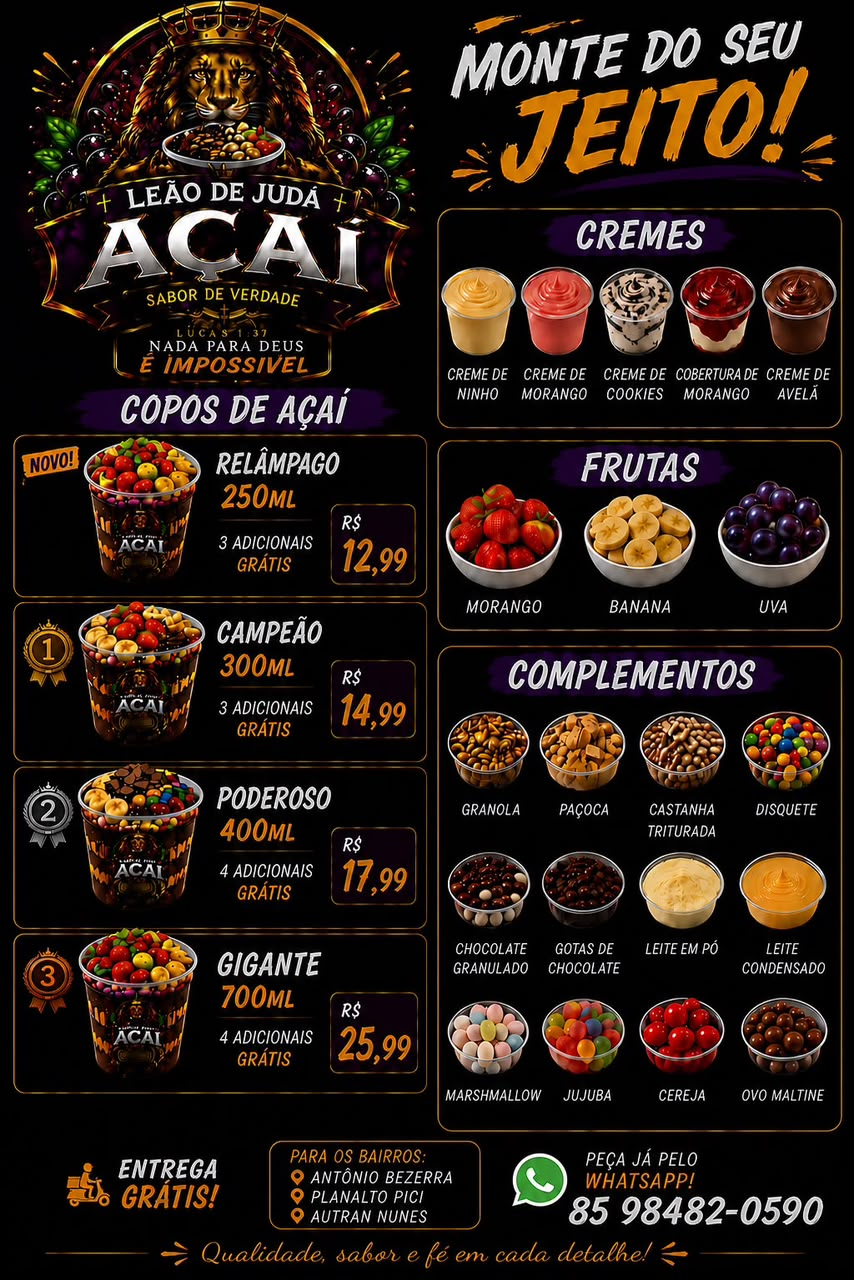
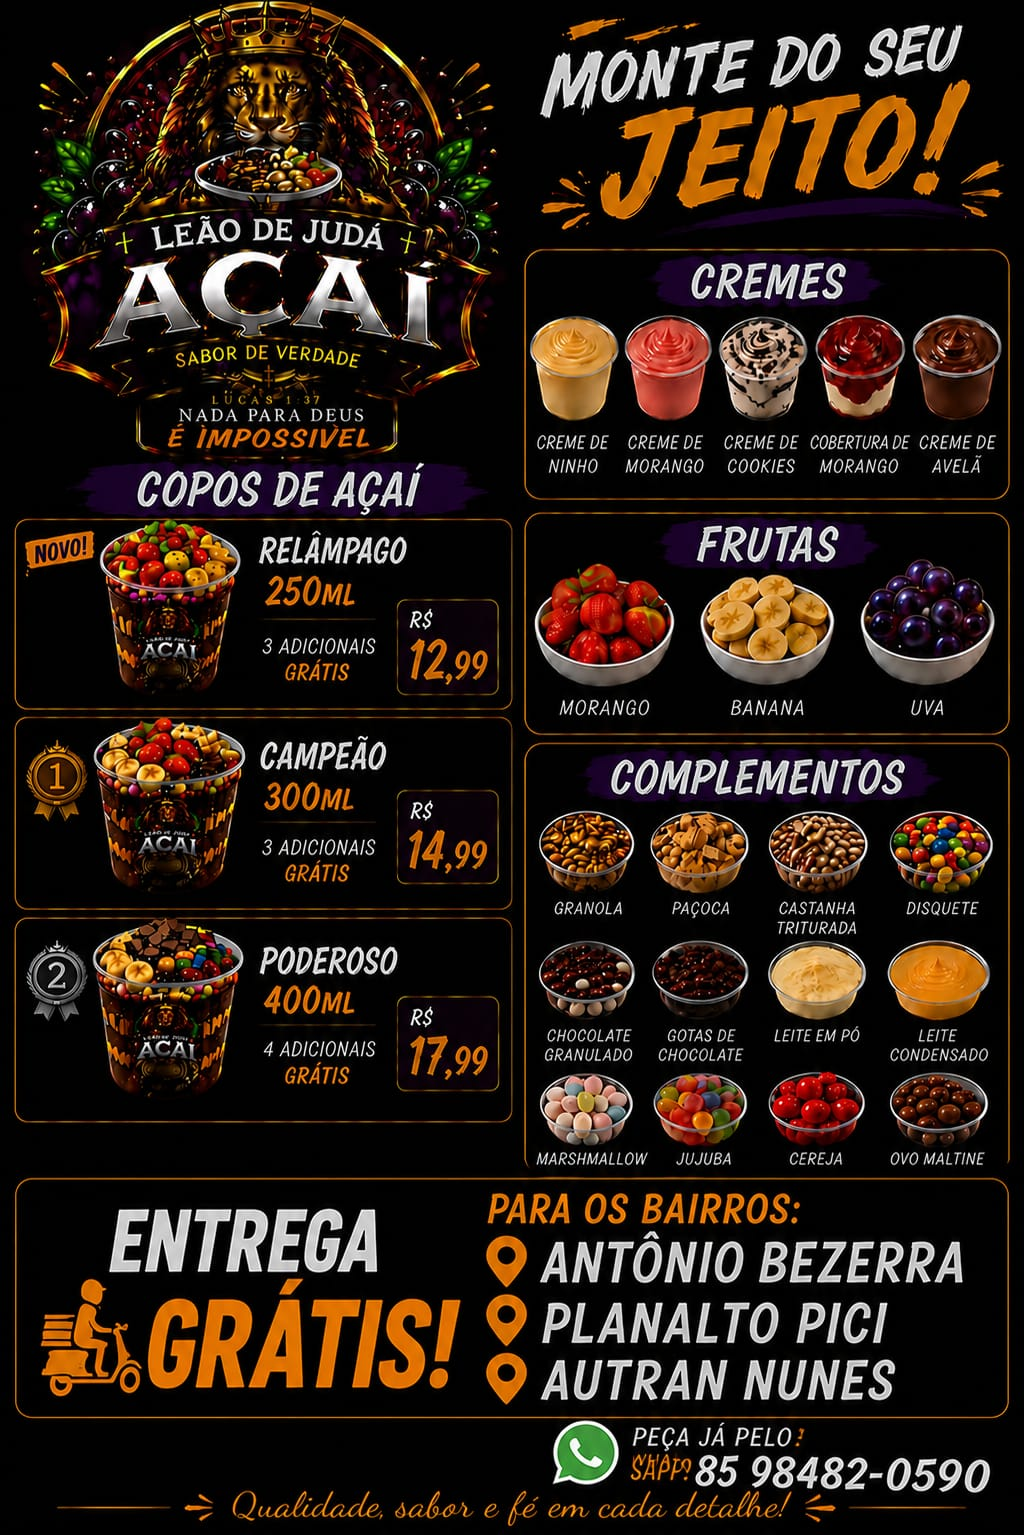
Restore cups menu to match official poster: 3/3/4 free addons and chocolate granulado, re-add updated cardapio poster image

diff --git a/index.html b/index.html
@@ -97,27 +97,27 @@
     <h2 class="section-title reveal" style="margin-top:4rem">Copos de Açaí</h2>
     <p class="section-sub reveal">Escolha o seu tamanho e monte do seu jeito</p>
     <div class="cards-grid cards-grid--3 reveal">
-      <div class="cup-card" data-product="Copo Relâmpago 250ml" data-price="12.99" data-free="5">
+      <div class="cup-card" data-product="Copo Relâmpago 250ml" data-price="12.99" data-free="3">
         <span class="cup-badge cup-badge--new">Novo</span>
         <h3>Relâmpago</h3>
         <span class="cup-ml">250ml</span>
-        <span class="cup-extra">4 adicionais + 1 brinde grátis</span>
+        <span class="cup-extra">3 adicionais grátis</span>
         <span class="cup-price">R$ 12,99</span>
         <button class="btn-add" type="button">+ Adicionar</button>
       </div>
-      <div class="cup-card" data-product="Copo Campeão 300ml" data-price="14.99" data-free="5">
+      <div class="cup-card" data-product="Copo Campeão 300ml" data-price="14.99" data-free="3">
         <span class="cup-badge cup-badge--gold">1º Campeão</span>
         <h3>Campeão</h3>
         <span class="cup-ml">300ml</span>
-        <span class="cup-extra">4 adicionais + 1 brinde grátis</span>
+        <span class="cup-extra">3 adicionais grátis</span>
         <span class="cup-price">R$ 14,99</span>
         <button class="btn-add" type="button">+ Adicionar</button>
       </div>
-      <div class="cup-card" data-product="Copo Poderoso 400ml" data-price="17.99" data-free="5">
+      <div class="cup-card" data-product="Copo Poderoso 400ml" data-price="17.99" data-free="4">
         <span class="cup-badge cup-badge--silver">2º Lugar</span>
         <h3>Poderoso</h3>
         <span class="cup-ml">400ml</span>
-        <span class="cup-extra">4 adicionais + 1 brinde grátis</span>
+        <span class="cup-extra">4 adicionais grátis</span>
         <span class="cup-price">R$ 17,99</span>
         <button class="btn-add" type="button">+ Adicionar</button>
       </div>
@@ -157,6 +157,7 @@
           <li>Paçoca</li>
           <li>Castanha Triturada</li>
           <li>Disquete</li>
+          <li>Chocolate Granulado</li>
           <li>Gotas de Chocolate</li>
           <li>Leite em Pó</li>
           <li>Leite Condensado</li>
@@ -205,8 +206,9 @@
   <div class="container">
     <h2 class="section-title reveal">Nossas ofertas</h2>
     <p class="section-sub reveal">Confira nossos cartazes com todo o cardápio</p>
-    <div class="gallery-grid gallery-grid--single reveal">
+    <div class="gallery-grid reveal">
       <img src="assets/images/promo-marmita.jpg" alt="Oferta especial: Açaí na Marmita">
+      <img src="assets/images/promo-cardapio.jpg" alt="Cardápio completo: copos de açaí e monte do seu jeito">
     </div>
   </div>
 </section>

diff --git a/js/main.js b/js/main.js
@@ -46,7 +46,7 @@ const ADDON_GROUPS = [
   },
   {
     name: 'Complementos',
-    items: ['Granola', 'Paçoca', 'Castanha Triturada', 'Disquete', 'Gotas de Chocolate', 'Leite em Pó', 'Leite Condensado', 'Marshmallow', 'Jujuba', 'Cereja', 'Ovo Maltine'],
+    items: ['Granola', 'Paçoca', 'Castanha Triturada', 'Disquete', 'Chocolate Granulado', 'Gotas de Chocolate', 'Leite em Pó', 'Leite Condensado', 'Marshmallow', 'Jujuba', 'Cereja', 'Ovo Maltine'],
   },
 ];
 